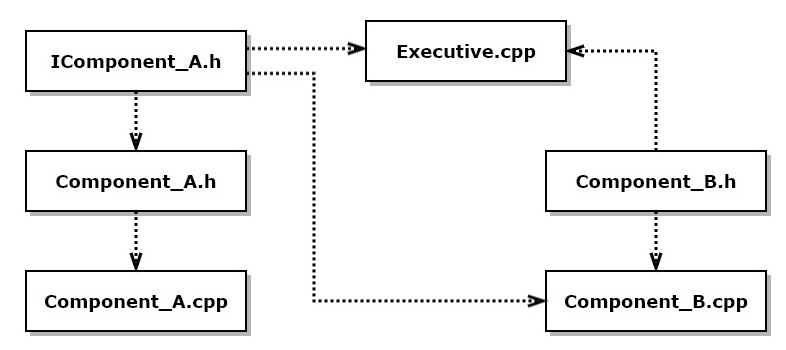
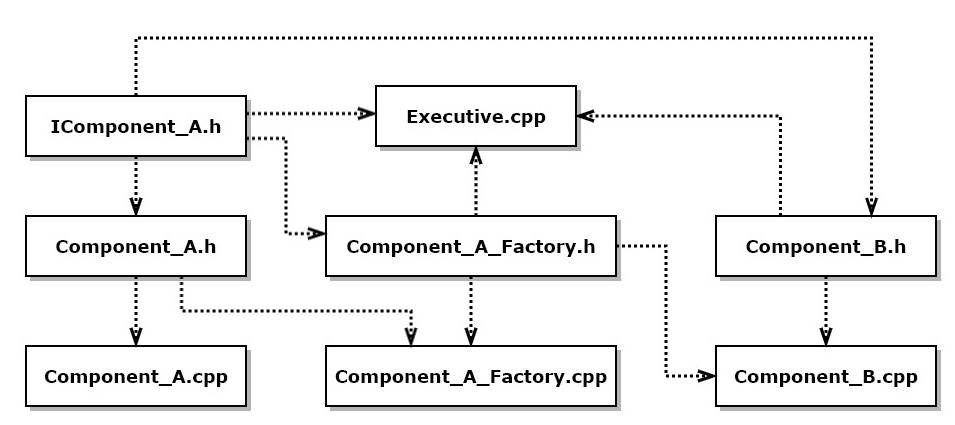
added content to CppStoryRepo and CppStory_Models

Changed region(s): [[0.0, 0.0571, 1.0, 0.9714]]

diff --git a/CppStory_Models.html b/CppStory_Models.html
@@ -175,9 +175,16 @@
           <t-b>
             Each C++ implementation file, one with the extension .cpp, usually includes several header
             files, ones with .h extension, and C++ libraries, like <c-s>&lt;iostream&gt;</c-s> with no extension. 
-            Figure 1. below shows
-            Executive.cpp including an interface header file, IComponent_A.h, and Component_B.h header
-            file.
+            Figure 1. shows
+            Executive.cpp including an interface header file, IComponent_A.h, Component_B.h header
+            file, and the header for an object factory that creates instances of Component_A.
+          </t-b>
+          <t-b>
+            If you look at the interface file, IComponent_A.h, and object factory header file, 
+            Component_A_Factory.h, you won&apos;t see any implementation.  Just declarations for the
+            Component_A and, in the factory, just a single declaration of a creational function.
+            Since the Executive and Component_B only include those files, they have no dependencies
+            on the implementation details of Component_A.
           </t-b>
           <t-b>
             When a C++ project is built, a single compiler source file is created by the compiler preprocessor
@@ -208,18 +215,18 @@
           </t-b>
           <t-b>
             In Figure 2., we show a package structure that contains the files from Figure 1. The Executive
-            package makes calls to functions it both Component_A and Component_B.  Also, Component_B makes
+            package makes calls to functions in both Component_A and Component_B.  Also, Component_B makes
             a call on Component_A.
           </t-b>
           <t-b>
             Because of these calling relationships, the Executive needs type information about both
-            components and Component_B needs type information about Component_A. That type information
+            components, and Component_B needs type information about Component_A. That type information
             comes from including headers in each .cpp file.
           </t-b>
           <t-b>
             Component_A provides an interface, IComponent_A.h, which describes the calling signatures
             of all its public methods, but does not include any implementation detail.  It servers as
-            a contract for services that Component_A exports. If it also supplies an object factory,
+            a contract for services that Component_A exports. It also supplies an object factory, so
             callers, like Executive and Component_B, have no dependencies on Component_A&apos;s
             implementation, and changes to that component will not affect the using code from
             compiling correctly, as long as the interface and object factory signature did not change.
@@ -243,13 +250,14 @@
             Looking inward, we see in Figure 3. the classes that each package contains. The Executive package
             has a single class, Executive. Component_A has two classes, the interface IComponent_A<sup>1</sup>
             and class Component_A. Finally, Component_B contains class Component_B and a subordinate class 
-            Helper.
+            Helper. The object factory is an unbound function, not a class, and so is not shown in the class
+            diagram.
           </t-b>
           <t-b>
-            The Executive composes Component_B and aggregates IComponent_A. Component_A inherits from its
-            interface IComponent_A. Component_B composes its helper class an uses the IComponent_A interface.
+            Executive composes Component_B and aggregates IComponent_A. Component_A inherits from its
+            interface IComponent_A. Component_B composes its helper class and uses the IComponent_A interface.
             Note that Executive and Component_B both actually bind to an instance of Component_A, but they
-            have to use the contract provided by IComponent_A.  That&apos;s why we show then linking to the
+            have to use the contract provided by IComponent_A.  That&apos;s why we show them linking to the
             interface.
           </t-b>
           <t-b>

diff --git a/CppStoryRepo.html b/CppStoryRepo.html
@@ -130,9 +130,29 @@
     This repository holds code examples used in the C++ story, ver 2:
     <ul class="tightList">
       <li>
-        <strong>Chapter1-Survey</strong>
+        <strong>Chapter1-Structure</strong>
         <indent-block>
-          Mostly small examples used to support Chapter1 discussions:<br />
+          Demo with two components and an executive.  One of the components provides an interface
+          and object factory.
+        </indent-block>
+      </li>
+      <li>
+        <strong>Chapter1-MemoryModel</strong>
+        <indent-block>
+          Illustrates use of static, stack, and heap memory.  Also illustrates stack based resource
+          management.
+        </indent-block>
+      </li>
+      <li>
+        <strong>Chapter1-Classes</strong>
+        <indent-block>
+          Develops small point class and demonstrates it is a value type.
+        </indent-block>
+      </li>
+      <li>
+        <strong>Chapter2-Survey</strong>
+        <indent-block>
+          Mostly small examples used to support Chapter2 discussions:<br />
           Elementary examples of Arrays and Pointers, STL containers, new Optional type,
           casts, and template function overloads.
         </indent-block>
